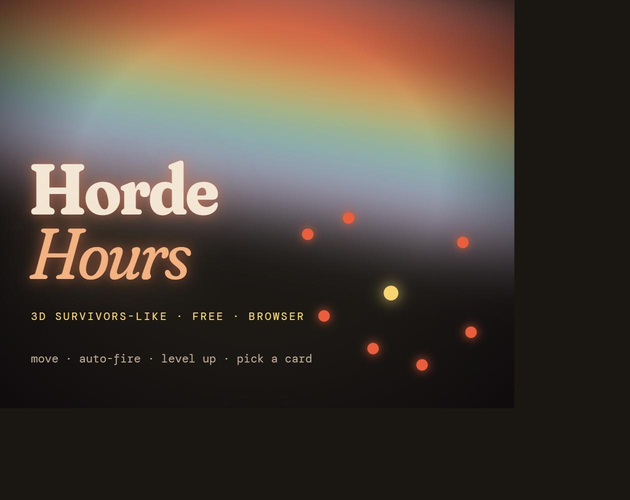
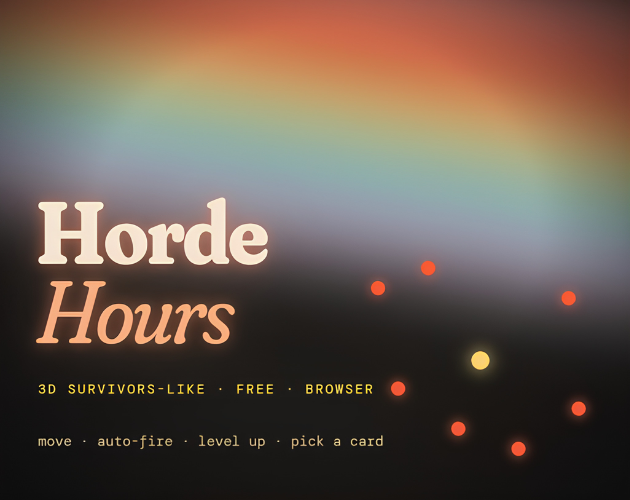
Horde Hours: playable on itch.io; itch handle is now phanto-official
Both project pages link to phanto-official.itch.io (old fanto1 URLs redirect).
Horde Hours status playable; plan marks session 3 complete; cover refreshed.

diff --git a/CLAUDE.md b/CLAUDE.md
@@ -40,8 +40,8 @@ Live, public game-dev portfolio website. It is both a university course assignme
 
 | Project | Path | Unity | Notes |
 |---|---|---|---|
-| SurvivorLike → public title **Horde Hours** | `D:\UnityProjects\SurvivorLike 4\SurvivorLike` | 6000.0.38f1, URP 17, Cinemachine 3, Input System | Vampire-Survivors-like. Build scenes: MenuScene (built from code by `HordeHoursSetup.BuildMenuScene`, 2026-10-15), Game1. My code: `Assets/_Game` (abilities, waves, object pooling, level-up, save system, HUD). Third-party (all confirmed 2026-10-15, listed with publishers on the site page): Asset Store packs by Supercyan, PI Entertainment, ThunderForgeStudio, Blink, BenjaTheMaker, CartoonVFX9x, Hun0FX, Matthew Guz, Travis Game Assets, Cartoon VFX by Wallcoeur, Vefects, LowlyPoly, SLD Audio (music "Happy Harmony"), Cyberwave Orchestra; rat character from Mixamo; fonts League Gothic (OFL) and Caslon Antique (1001Fonts FFC); AI-generated icons. **Retro Floral (personal use only) and Gondens DEMO were removed from the game on 2026-10-15** – never reintroduce them. Static Field visual is a Particle System since 2026-10-15 (VFX Graph and PPv2 packages removed). Web build zip: `Builds/HordeHours-web-0.1.0.zip`; itch upload pending. |
-| Into the Mewgenics → public title **Push Comes to Shove** | `D:\UnityProjects\IntotheMewgenics` | 6000.3.10f1, URP 2D, Input System | Deterministic grid tactics (Into the Breach / King's Bounty inspired). Same project as "Turn-Based Tactics Prototype" on my CV. Design docs: `Docs/DESIGN.md`, `Docs/PLAN-core-loop.md`. Has Unity MCP installed (strip before building). Third-party (confirmed 2026-10-14): Kenney Isometric Sandbox tiles (CC0); Sanctum Pixel *Top Down Pixel Art Characters* packs – Humans, Orc, Elf, Goblin (purchased, credit optional, no resale); PixelBattleText by Psychic Fur (free, Asset Store EULA, bundles the Alphapix font); UI font Pixellari by Zacchary Dempsey-Plante (100 % free, credit requested). The dafont "Pixel" font (krolesz94, personal use only) is **not** in the project. Damage is fixed since 2026-10-12 (Melee 4 / Ranged 3 / Line 1). itch.io page: `https://fanto1.itch.io/push-comes-to-shove` (itch handle is **fanto1**, not phanto17). "Mewgenics" is the title of an existing commercial game – never use it publicly. |
+| SurvivorLike → public title **Horde Hours** | `D:\UnityProjects\SurvivorLike 4\SurvivorLike` | 6000.0.38f1, URP 17, Cinemachine 3, Input System | Vampire-Survivors-like. Build scenes: MenuScene (built from code by `HordeHoursSetup.BuildMenuScene`, 2026-10-15), Game1. My code: `Assets/_Game` (abilities, waves, object pooling, level-up, save system, HUD). Third-party (all confirmed 2026-10-15, listed with publishers on the site page): Asset Store packs by Supercyan, PI Entertainment, ThunderForgeStudio, Blink, BenjaTheMaker, CartoonVFX9x, Hun0FX, Matthew Guz, Travis Game Assets, Cartoon VFX by Wallcoeur, Vefects, LowlyPoly, SLD Audio (music "Happy Harmony"), Cyberwave Orchestra; rat character from Mixamo; fonts League Gothic (OFL) and Caslon Antique (1001Fonts FFC); AI-generated icons. **Retro Floral (personal use only) and Gondens DEMO were removed from the game on 2026-10-15** – never reintroduce them. Static Field visual is a Particle System since 2026-10-15 (VFX Graph and PPv2 packages removed). Web build zip: `Builds/HordeHours-web-0.1.0.zip`; public on itch.io since 2026-10-16: `https://phanto-official.itch.io/horde-hours`. |
+| Into the Mewgenics → public title **Push Comes to Shove** | `D:\UnityProjects\IntotheMewgenics` | 6000.3.10f1, URP 2D, Input System | Deterministic grid tactics (Into the Breach / King's Bounty inspired). Same project as "Turn-Based Tactics Prototype" on my CV. Design docs: `Docs/DESIGN.md`, `Docs/PLAN-core-loop.md`. Has Unity MCP installed (strip before building). Third-party (confirmed 2026-10-14): Kenney Isometric Sandbox tiles (CC0); Sanctum Pixel *Top Down Pixel Art Characters* packs – Humans, Orc, Elf, Goblin (purchased, credit optional, no resale); PixelBattleText by Psychic Fur (free, Asset Store EULA, bundles the Alphapix font); UI font Pixellari by Zacchary Dempsey-Plante (100 % free, credit requested). The dafont "Pixel" font (krolesz94, personal use only) is **not** in the project. Damage is fixed since 2026-10-12 (Melee 4 / Ranged 3 / Line 1). itch.io page: `https://phanto-official.itch.io/push-comes-to-shove` (itch handle is **phanto-official** since 2026-10-16; the old `fanto1` URLs redirect). "Mewgenics" is the title of an existing commercial game – never use it publicly. |
 | DungeonForge → public title **Cinderhold** | `D:\UnityProjects\DungeonForge` | 6000.0.25f1, URP 2D | 2D dungeon crawler. **Every element is tutorial-derived (confirmed 2026-10-11) → to be reworked into my own project** with original architecture, data and licensed art (Kenney). Plan in `docs/audit-2026-10-11.md`. Until then, nothing in it may be presented as my contribution. |
 
 | **Eternity Keeper** (tool, not a game) | `D:\PillarsEditor\eternity-keeper` (repo `phanto17/eternity-keeper`, fork of `aybrkaknc/eternity-keeper`, GPL-3.0) | Java 8 + JCEF, Maven; own `CLAUDE.md` with strict toolchain and save-safety rules – **read it before touching that repo** | Pillars of Eternity save editor. My work Jul 12 – Oct 9 2026: ~90 commits (identities `tjaskol`, `boogiewoogie`), ~44 k lines added incl. tests, releases 1.0.0-beta (2026-10-06) and 1.0.1-beta (2026-10-09), PR #1 open upstream, Reddit announcements. 708 JUnit tests, CI + Package workflows. **Most code was written with Claude Code under my direction – the site and CV must say so** (the repo and Reddit posts already do). Site page: `src/content/projects/eternity-keeper.md` (kind: tool). Screenshots copied to `public/media/eternity-keeper/`. |
@@ -115,7 +115,7 @@ home (hero, About, Projects, Activities, Experience, Contact), `/projects/<id>/`
 since 2026-10-11** (repo `phanto17/phanto17.github.io`, Pages build type = workflow; every push to
 `main` redeploys in ~5 min). Local git identity: Tymoteusz Jaskólski <tmtjsk@gmail.com>. Open `TODO`
 markers on the site are deliberate placeholders. Session plan with hours: `docs/plan-sessions.md`
-(sessions 2 and 3 done up to the Horde Hours itch upload; next is session 4, Cinderhold).
+(sessions 2 and 3 complete – two of three projects playable; next is session 4, Cinderhold).
 
 ## Working rules
 

diff --git a/docs/itch/horde-hours.md b/docs/itch/horde-hours.md
@@ -6,11 +6,11 @@ autostart off, SharedArrayBuffer off, theme colours from the Prism system). Diff
 - **Build:** `D:\UnityProjects\SurvivorLike 4\SurvivorLike\Builds\HordeHours-web-0.1.0.zip` (27 MB)
 - **Cover:** `docs/itch/assets/horde-hours-cover-630x500.png`; a banner in the same style can be generated on request
 - **Screenshots:** take 3–5 at 1280×720 as described in the guide (§7); the level-up card screen and a crowded wave are the best shots
-- **Known rough edges in 0.1.0:** no sound-mix pass, no win condition (by design), several pack authors still missing from the credits
+- **Known rough edges in 0.1.0:** no sound-mix pass, no win condition (by design), rat modeller still unknown
 
 ## Title / slug
 
-`Horde Hours` · `fanto1.itch.io/horde-hours`
+`Horde Hours` · `phanto-official.itch.io/horde-hours` (live since 2026-10-16)
 
 ## Short description (tagline)
 
@@ -42,7 +42,7 @@ Feedback welcome in the comments — especially on weapon feel and difficulty.
 - Enemies: [Level 1 Monster Pack](https://assetstore.unity.com/packages/3d/characters/creatures/level-1-monster-pack-77703) by PI Entertainment Limited · [Stylized Free Skeleton](https://assetstore.unity.com/packages/3d/characters/creatures/stylized-free-skeleton-298650) by ThunderForgeStudio
 - Weapons and items: [FREE – RPG Weapons](https://assetstore.unity.com/packages/3d/props/weapons/free-rpg-weapons-199738) by Blink · [Simple Gems and Items](https://assetstore.unity.com/packages/3d/props/simple-gems-and-items-ultimate-animated-customizable-pack-73764) by BenjaTheMaker
 - Effects: [Comic Explosion Effect](https://assetstore.unity.com/packages/vfx/particles/fire-explosions/comic-explosion-effect-317348) by CartoonVFX9x · [(Free) StylizedVFX Fire Pack](https://assetstore.unity.com/packages/vfx/particles/fire-explosions/free-stylizedvfx-fire-pack-321082) by Hun0FX · [Slash Effects FREE](https://assetstore.unity.com/packages/vfx/particles/spells/slash-effects-free-295209) by Matthew Guz · [Hit Impact Effects FREE](https://assetstore.unity.com/packages/vfx/particles/hit-impact-effects-free-218385) by Travis Game Assets · [VFX – Impact and Hit – Light Version](https://assetstore.unity.com/packages/vfx/particles/vfx-impact-and-hit-light-version-335800) by Cartoon VFX by Wallcoeur · [Zap VFX – URP](https://assetstore.unity.com/packages/vfx/particles/spells/zap-vfx-urp-303479) by Vefects
-- Environment: [Stylized Grass Texture](https://assetstore.unity.com/packages/2d/textures-materials/glass/stylized-grass-texture-153153) by LowlyPoly · rat model by TODO (original modeller unknown) with the Flair animation retargeted on [Mixamo](https://www.mixamo.com) (Adobe)
+- Environment: [Stylized Grass Texture](https://assetstore.unity.com/packages/2d/textures-materials/glass/stylized-grass-texture-153153) by LowlyPoly · rat model (original modeller unknown) with the Flair animation retargeted on [Mixamo](https://www.mixamo.com) (Adobe)
 - Audio: "Happy Harmony" from [Free – Casual & Relaxing Game Music Pack](https://assetstore.unity.com/packages/audio/music/free-casual-relaxing-game-music-pack-262740) by SLD Audio · [Hints Stars Points & Rewards – Lite Pack](https://assetstore.unity.com/packages/audio/sound-fx/hints-stars-points-rewards-sound-effects-lite-pack-295538) by Cyberwave Orchestra
 - Fonts: [League Gothic](https://www.theleagueofmoveabletype.com/league-gothic) by The League of Moveable Type (OFL) · [Caslon Antique](https://www.1001fonts.com/caslon-antique-font.html) by Typographer Mediengestaltung (1001Fonts FFC)
 - Ability icons: AI-generated

diff --git a/src/content/projects/horde-hours.md b/src/content/projects/horde-hours.md
@@ -2,7 +2,7 @@
 title: Horde Hours
 summary: A 3D survivors-like. Auto-firing abilities, pooled enemies and VFX, timed waves on a NavMesh, level-up cards, passives and a JSON save system.
 genre: Survivors-like / action roguelite
-status: in-progress
+status: playable
 dates:
   start: "2025-11"   # TODO: confirm start month
   end: "2026-02"
@@ -35,7 +35,7 @@ media:
   - { type: image, src: /media/horde-hours/fireball.webp, alt: "The player in a grass arena with a fireball bursting on a slime, HUD with timer, kills and ability slots", caption: "Fig. 1 — a run in the web build (800 px capture — TODO recapture at 1280)" }
   - { type: image, src: /media/horde-hours/arena.webp, alt: "Four slimes closing in on the player across the arena", caption: "Fig. 2 — the first wave arrives" }
   - { type: image, src: /media/horde-hours/menu.webp, alt: "Horde Hours main menu with Play and Credits buttons", caption: "Fig. 3 — the menu built for the web release" }
-# itchUrl: TODO after the WebGL build is published
+itchUrl: https://phanto-official.itch.io/horde-hours
 credits:
   - { asset: "Character Pack: Free Sample", author: "Supercyan", url: "https://assetstore.unity.com/packages/3d/characters/humanoids/character-pack-free-sample-79870", license: "Asset Store EULA" }
   - { asset: "Character Pack: Zombie Sample", author: "Supercyan", url: "https://assetstore.unity.com/packages/3d/characters/humanoids/fantasy/character-pack-zombie-sample-131604", license: "Asset Store EULA" }

diff --git a/src/content/projects/push-comes-to-shove.md b/src/content/projects/push-comes-to-shove.md
@@ -35,7 +35,7 @@ media:
   - { type: image, src: /media/push-comes-to-shove/enemy-turn.webp, alt: "Enemy turn: a goblin's green movement path is revealed before it acts", caption: "Fig. 1 — enemy turn: one enemy's intent at a time (web build, 800 px capture — TODO recapture at 1280)" }
   - { type: image, src: /media/push-comes-to-shove/deploy.webp, alt: "Deployment phase with the blue player zone and four placed units", caption: "Fig. 2 — deploying the squad in the player's zone" }
   - { type: image, src: /media/push-comes-to-shove/move-range.webp, alt: "A selected soldier with its reachable tiles highlighted in green", caption: "Fig. 3 — path-aware move range of the selected unit" }
-itchUrl: https://fanto1.itch.io/push-comes-to-shove
+itchUrl: https://phanto-official.itch.io/push-comes-to-shove
 credits:
   - { asset: "Isometric Sandbox tile sheet", author: "Kenney", url: "https://kenney.nl", license: "CC0" }
   - { asset: "Humans — Top Down Pixel Art Character Assets", author: "Sanctum Pixel", url: "https://sanctumpixel.itch.io/humans-top-down-pixel-art-character-assets", license: "Purchased; commercial use allowed, no resale" }
